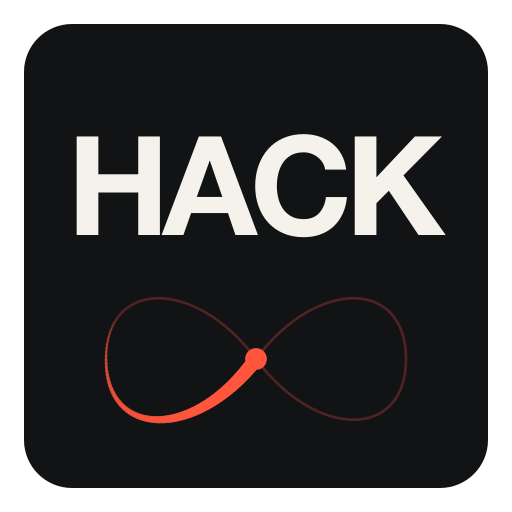
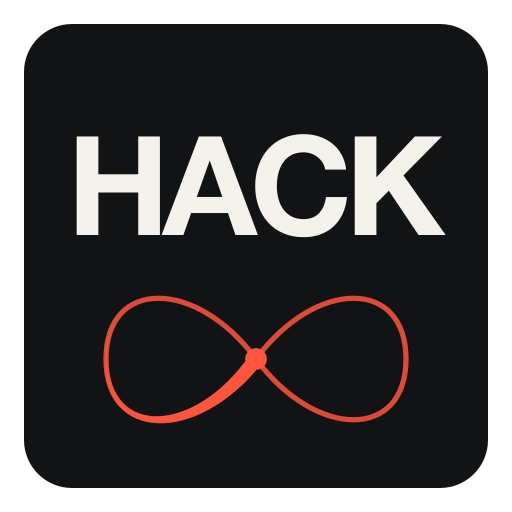
Brighten infinity outline and bring body closer to white

Changed region(s): [[0.1875, 0.5625, 0.8125, 0.8438]]

diff --git a/src/components/v2/site.css b/src/components/v2/site.css
@@ -1,4 +1,4 @@
-.v2-site { --v2-width: 1240px; --graphite: var(--carbon); --alloy: var(--carbon); --v2-body: #f7f7f7; background: var(--v2-body); color: var(--carbon); }
+.v2-site { --v2-width: 1240px; --graphite: var(--carbon); --alloy: var(--carbon); --v2-body: #fdfdfd; background: var(--v2-body); color: var(--carbon); }
 .v2-wrap { width: min(100%, var(--v2-width)); margin-inline: auto; padding-inline: clamp(1.25rem, 4vw, 3.5rem); }
 .v2-site a, .v2-site button, .v2-site summary { touch-action: manipulation; }
 .v2-version { background: var(--carbon); color: var(--paper); font-size: .875rem; }

diff --git a/README.md b/README.md
@@ -36,7 +36,7 @@ Set `NEXT_PUBLIC_SITE_URL` to the deployed origin for production metadata. Never
 
 ## Brand
 
-Current SVGs are in `public/brand/`. The header and hero stay cream, the body is neutral off-white (#f7f7f7), and the footer is brand black (#111315). The HACK badge and infinity motif preserve the existing colors and outlined wordmark. Only the hero motif animates, on a black background, with a tapered trail; reduced-motion users receive the static version. Header and footer badges are static. `public/brand/hack-discord-icon.png` is the 512 × 512 Discord icon export. The favicon uses the static infinity mark.
+Current SVGs are in `public/brand/`. The header and hero stay cream, the body is neutral off-white (#fdfdfd), and the footer is brand black (#111315). The HACK badge and infinity motif preserve the existing colors and outlined wordmark. Only the hero motif animates, on a black background, with a tapered trail; reduced-motion users receive the static version. Header and footer badges are static. `public/brand/hack-discord-icon.png` is the 512 × 512 Discord icon export. The favicon uses the static infinity mark.
 
 Earlier exports under `brand/assets` and `brand/reference` are historical and must not be reused as current branding. The former abbreviation and tagline have been retired. Fonts remain locally served Inter Tight, Inter, and IBM Plex Mono.
 

diff --git a/brand/README.md b/brand/README.md
@@ -4,4 +4,4 @@ The current brand is **Hackers in the Loop**, with **HACK** as its compact mark.
 
 The earlier files under `assets/` and `reference/`, plus the earlier strategy and guidelines in this directory, are historical. They contain superseded naming and positioning and should not be exported or served as current branding.
 
-Current motion: an orange infinity symbol with a traveling dot and a trail that tapers behind it. Reduced-motion users see a static mark. Use cream (#f4f2ea) for the header and hero, neutral off-white (#f7f7f7) for the body, and brand black (#111315) for the footer and hero animation background. Calls to action are orange. Header and footer logos are static. Animate only the hero infinity motif. The static 512 × 512 PNG at public/brand/hack-discord-icon.png is ready for use as the Discord server icon.
+Current motion: an orange infinity symbol with a traveling dot and a trail that tapers behind it. Reduced-motion users see a static mark. Use cream (#f4f2ea) for the header and hero, neutral off-white (#fdfdfd) for the body, and brand black (#111315) for the footer and hero animation background. Calls to action are orange. Header and footer logos are static. Animate only the hero infinity motif. The static 512 × 512 PNG at public/brand/hack-discord-icon.png is ready for use as the Discord server icon.
